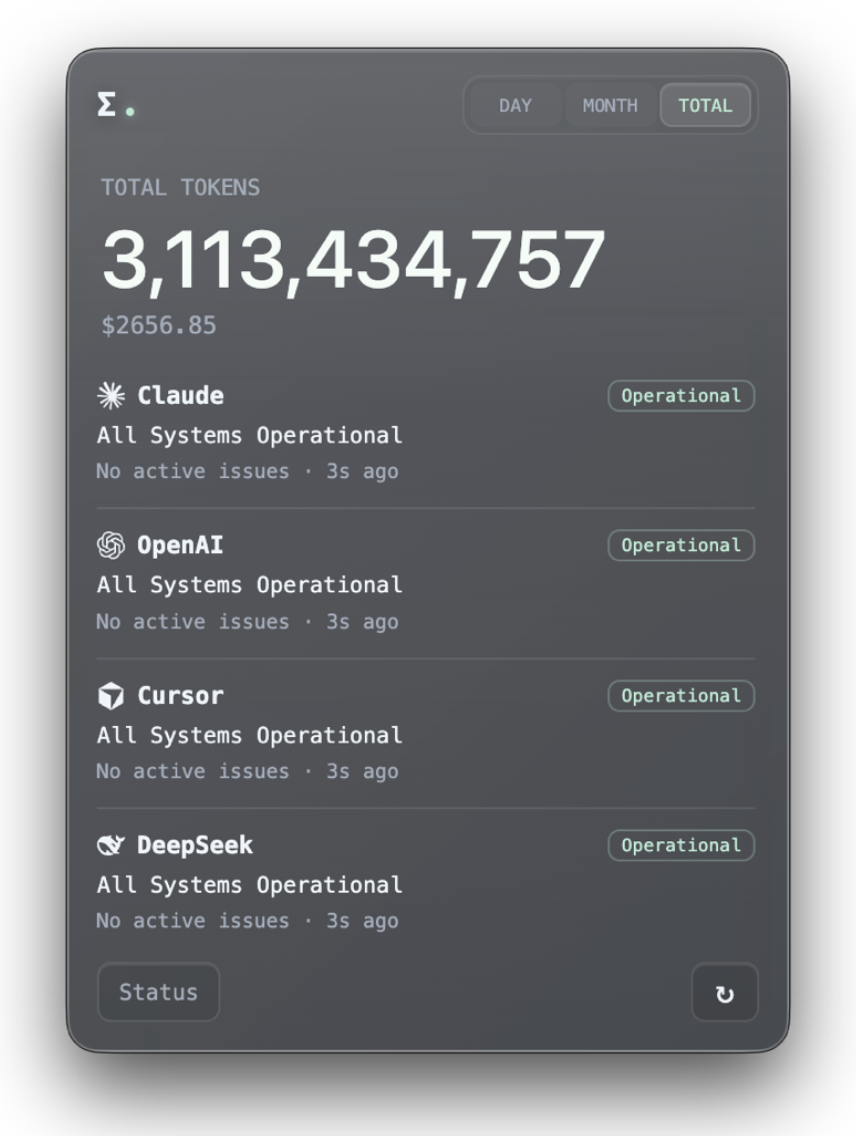
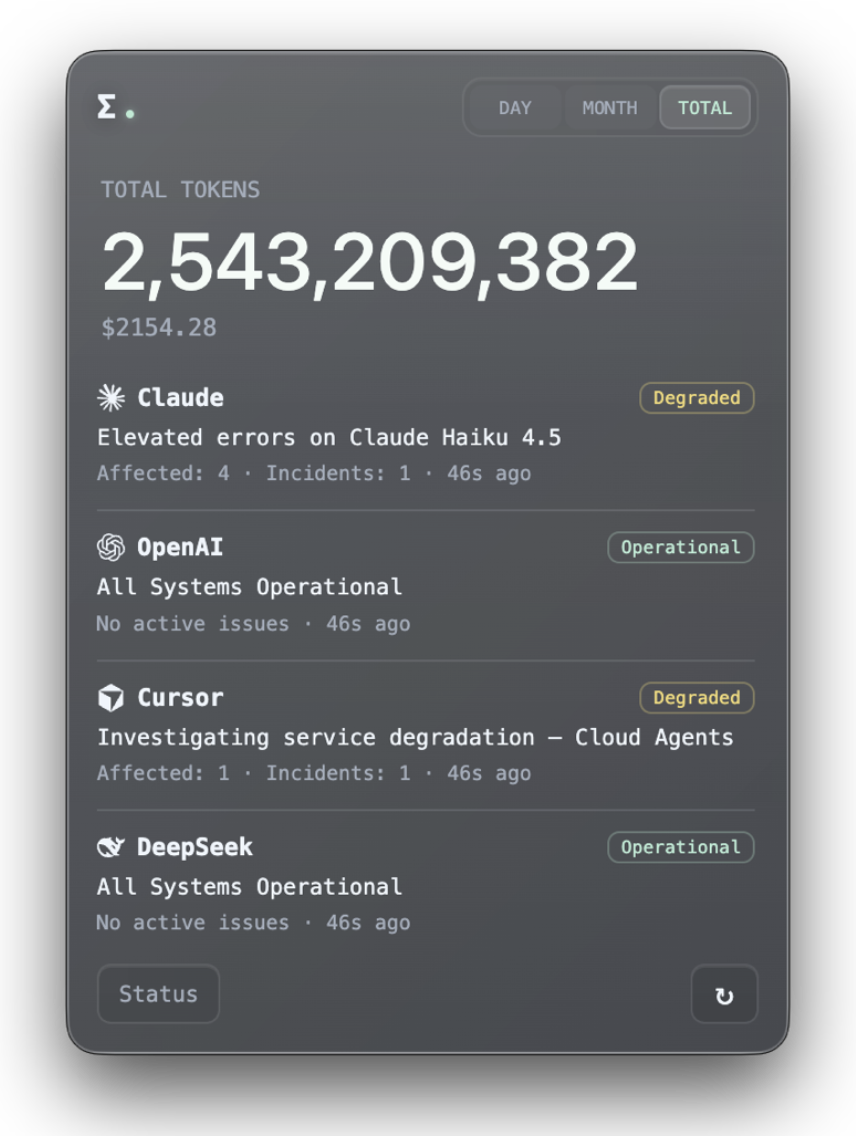
feat: lead service status card with the active incident title and an affected-component count

diff --git a/tests/electron/serviceStatus.test.js b/tests/electron/serviceStatus.test.js
@@ -45,9 +45,38 @@ test('summarizeStatuspageProvider converts statuspage summary into compact provi
     checkedAt: '2026-06-06T02:31:00Z',
     updatedAt: '2026-06-06T02:30:00Z',
     componentIssues: [{ name: 'API', status: 'degraded_performance' }],
+    incidentTitle: 'API latency',
     incidentCount: 1,
     maintenanceCount: 1
   });
+});
+
+test('summarizeStatuspageProvider surfaces the newest active incident name as incidentTitle', () => {
+  const payload = {
+    status: { indicator: 'minor', description: 'Partially Degraded Service' },
+    incidents: [
+      { name: 'Elevated errors on Claude Haiku 4.5', status: 'identified' },
+      { name: 'Older active incident', status: 'monitoring' }
+    ]
+  };
+
+  const result = summarizeStatuspageProvider(provider, payload, { checkedAt: '2026-06-06T02:31:00Z' });
+
+  // The first entry mirrors the headline the official status page leads with.
+  assert.equal(result.incidentTitle, 'Elevated errors on Claude Haiku 4.5');
+  assert.equal(result.incidentCount, 2);
+});
+
+test('summarizeStatuspageProvider leaves incidentTitle empty when no incident is active', () => {
+  const payload = {
+    status: { indicator: 'none', description: 'All Systems Operational' },
+    incidents: [{ name: 'Resolved last week', status: 'resolved' }]
+  };
+
+  const result = summarizeStatuspageProvider(provider, payload, { checkedAt: '2026-06-06T02:31:00Z' });
+
+  assert.equal(result.incidentTitle, '');
+  assert.equal(result.incidentCount, 0);
 });
 
 test('summarizeStatuspageProvider reports unknown when a provider fetch fails', () => {
@@ -58,6 +87,7 @@ test('summarizeStatuspageProvider reports unknown when a provider fetch fails', 
 
   assert.equal(result.status, 'unknown');
   assert.equal(result.error, 'network down');
+  assert.equal(result.incidentTitle, '');
   assert.equal(result.incidentCount, 0);
   assert.equal(result.maintenanceCount, 0);
 });

diff --git a/src/electron/renderer/app.js b/src/electron/renderer/app.js
@@ -1106,20 +1106,21 @@ function serviceStatusLabel(status) {
   return t('serviceStatus.unknown');
 }
 
-function serviceStatusComponentText(provider) {
-  const { visible, overflow } = serviceStatusPresentationApi.affectedComponentNames(provider.componentIssues, 2);
-  if (!visible.length) return '';
-  const names = visible.join(t('serviceStatus.listSeparator'));
-  return overflow > 0 ? `${names} ${t('serviceStatus.componentsMore', { count: overflow })}` : names;
-}
-
 function serviceStatusMeta(provider) {
+  // Show a short affected-component *count* rather than the names: the names are
+  // the variable-length part that overflowed the line, while the count keeps the
+  // real scope visible — an incident title (line 2) often understates it, e.g.
+  // "errors on Haiku" while claude.ai/API/Code are all degraded. Full names stay
+  // in the row tooltip (set in renderServiceStatus).
   const parts = [];
-  const components = serviceStatusComponentText(provider);
-  if (components) parts.push(components);
+  const affectedCount = serviceStatusPresentationApi.affectedComponentNames(provider.componentIssues).all.length;
+  if (affectedCount > 0) parts.push(t('serviceStatus.components', { count: affectedCount }));
   if (Number(provider.incidentCount || 0) > 0) parts.push(t('serviceStatus.incidents', { count: provider.incidentCount }));
   if (Number(provider.maintenanceCount || 0) > 0) parts.push(t('serviceStatus.maintenance', { count: provider.maintenanceCount }));
-  return parts.join(' · ') || t('serviceStatus.noIssues');
+  if (parts.length) return parts.join(' · ');
+  // "No ongoing issues" only reads true for a healthy provider — a degraded one
+  // with nothing to count shows just its timestamp rather than a contradiction.
+  return provider.status === 'ok' ? t('serviceStatus.noIssues') : '';
 }
 
 function visibleServiceProviderIds() {
@@ -1181,7 +1182,7 @@ function renderServiceStatus() {
     head.append(title, pill);
     const description = document.createElement('div');
     description.className = 'service-status-description';
-    description.textContent = provider.description || t('serviceStatus.unknown');
+    description.textContent = serviceStatusPresentationApi.statusHeadline(provider) || t('serviceStatus.unknown');
     const meta = document.createElement('div');
     meta.className = 'service-status-meta';
     const metaInfo = serviceStatusMeta(provider);

diff --git a/tests/electron/serviceStatusPresentation.test.js b/tests/electron/serviceStatusPresentation.test.js
@@ -5,7 +5,8 @@ const test = require('node:test');
 
 const {
   affectedComponentNames,
-  agoBucket
+  agoBucket,
+  statusHeadline
 } = require('../../src/electron/renderer/serviceStatusPresentation');
 
 test('affectedComponentNames splits names into a visible slice and overflow count', () => {
@@ -41,6 +42,23 @@ test('affectedComponentNames ignores blank names and tolerates bad input', () =>
     visible: ['Search'],
     overflow: 0
   });
+});
+
+test('statusHeadline prefers the active incident title over the generic description', () => {
+  assert.equal(
+    statusHeadline({ incidentTitle: 'Elevated errors on Claude Haiku 4.5', description: 'Partially Degraded Service' }),
+    'Elevated errors on Claude Haiku 4.5'
+  );
+});
+
+test('statusHeadline falls back to the description when no incident is active', () => {
+  assert.equal(statusHeadline({ incidentTitle: '', description: 'All Systems Operational' }), 'All Systems Operational');
+  assert.equal(statusHeadline({ description: 'All Systems Operational' }), 'All Systems Operational');
+});
+
+test('statusHeadline returns an empty string when nothing is known', () => {
+  assert.equal(statusHeadline({}), '');
+  assert.equal(statusHeadline(null), '');
 });
 
 test('agoBucket buckets into seconds, minutes, and hours', () => {

diff --git a/tests/electron/serviceStatusDom.test.js b/tests/electron/serviceStatusDom.test.js
@@ -42,6 +42,24 @@ test('renderer surfaces affected component names through the presentation helper
   assert.match(app, /serviceStatusPresentationApi\.affectedComponentNames/);
 });
 
+test('the status description line leads with the active incident headline', () => {
+  const app = readRendererFile('app.js');
+  const renderBody = functionBody(app, 'renderServiceStatus', 'refreshServiceStatus');
+  assert.match(renderBody, /serviceStatusPresentationApi\.statusHeadline/);
+});
+
+test('the meta line shows an affected-component count, not the verbose name list', () => {
+  const app = readRendererFile('app.js');
+  // The component names made the meta line overflow; the full list now lives only
+  // in the row tooltip (meta.title), so the dedicated name-joining helper is gone.
+  assert.doesNotMatch(app, /function serviceStatusComponentText/);
+  const metaBody = functionBody(app, 'serviceStatusMeta', 'visibleServiceProviderIds');
+  // A short count keeps the real scope visible (an incident title can understate
+  // it) without reintroducing the overflow that the joined name list caused.
+  assert.match(metaBody, /serviceStatus\.components/);
+  assert.doesNotMatch(metaBody, /listSeparator/);
+});
+
 test('renderer fetches service status only through preload IPC', () => {
   const app = readRendererFile('app.js');
   const renderBody = functionBody(app, 'renderServiceStatus', 'refreshServiceStatus');

diff --git a/src/electron/renderer/serviceStatusPresentation.js b/src/electron/renderer/serviceStatusPresentation.js
@@ -20,6 +20,16 @@
     };
   }
 
+  // The card's second line leads with the active incident's name when there is
+  // one — it's far more useful (and what the official page headlines) than the
+  // generic "Partially Degraded Service", which the status pill already conveys.
+  // Falls back to the overall status description when no incident is active.
+  function statusHeadline(provider) {
+    const incident = String(provider?.incidentTitle || '').trim();
+    if (incident) return incident;
+    return String(provider?.description || '').trim();
+  }
+
   function agoBucket(ms) {
     const total = Math.max(0, Math.floor((Number(ms) || 0) / 1000));
     if (total < 60) return { unit: 'seconds', value: total };
@@ -27,5 +37,5 @@
     return { unit: 'hours', value: Math.floor(total / 3600) };
   }
 
-  return { affectedComponentNames, agoBucket };
+  return { affectedComponentNames, agoBucket, statusHeadline };
 });

diff --git a/src/electron/renderer/i18n.js b/src/electron/renderer/i18n.js
@@ -140,7 +140,7 @@
       'serviceStatus.notChecked': 'Not checked',
       'serviceStatus.noIssues': 'No active issues',
       'serviceStatus.listSeparator': ', ',
-      'serviceStatus.componentsMore': '+{count}',
+      'serviceStatus.components': 'Affected: {count}',
       'serviceStatus.incidents': 'Incidents: {count}',
       'serviceStatus.maintenance': 'Maintenance: {count}',
       'serviceStatus.checkedAt': 'Checked {time}',
@@ -496,7 +496,7 @@
       'serviceStatus.notChecked': '尚未檢查',
       'serviceStatus.noIssues': '無進行中的問題',
       'serviceStatus.listSeparator': '、',
-      'serviceStatus.componentsMore': '+{count}',
+      'serviceStatus.components': '受影響組件：{count}',
       'serviceStatus.incidents': '事件：{count}',
       'serviceStatus.maintenance': '維護：{count}',
       'serviceStatus.checkedAt': '{time} 檢查',
@@ -852,7 +852,7 @@
       'serviceStatus.notChecked': '尚未检查',
       'serviceStatus.noIssues': '无进行中的问题',
       'serviceStatus.listSeparator': '、',
-      'serviceStatus.componentsMore': '+{count}',
+      'serviceStatus.components': '受影响组件：{count}',
       'serviceStatus.incidents': '事件：{count}',
       'serviceStatus.maintenance': '维护：{count}',
       'serviceStatus.checkedAt': '{time} 检查',

diff --git a/tests/electron/i18n.test.js b/tests/electron/i18n.test.js
@@ -129,6 +129,12 @@ test('service status provider preference labels exist in Chinese', () => {
   assert.equal(translate('zh-TW', 'serviceStatus.configureProviders', { name: '狀態' }), '設定 狀態 服務');
 });
 
+test('the affected-component count is localized', () => {
+  assert.equal(translate('en', 'serviceStatus.components', { count: 4 }), 'Affected: 4');
+  assert.equal(translate('zh-TW', 'serviceStatus.components', { count: 4 }), '受影響組件：4');
+  assert.equal(translate('zh-CN', 'serviceStatus.components', { count: 4 }), '受影响组件：4');
+});
+
 test('relative status timestamps are localized', () => {
   assert.equal(translate('zh-TW', 'serviceStatus.agoSeconds', { n: 5 }), '5 秒前');
   assert.equal(translate('zh-TW', 'serviceStatus.agoMinutes', { n: 3 }), '3 分鐘前');

diff --git a/src/electron/serviceStatus.js b/src/electron/serviceStatus.js
@@ -88,6 +88,7 @@ function summarizeStatuspageProvider(provider, payload, options = {}) {
       checkedAt,
       updatedAt: '',
       componentIssues: [],
+      incidentTitle: '',
       incidentCount: 0,
       maintenanceCount: 0,
       error: options.error?.message || 'Unable to check status'
@@ -108,6 +109,9 @@ function summarizeStatuspageProvider(provider, payload, options = {}) {
     checkedAt,
     updatedAt: String(payload.page?.updated_at || payload.status?.updated_at || '').trim(),
     componentIssues: issues,
+    // The newest active incident's name — the headline the official status page
+    // leads with (e.g. "Elevated errors on Claude Haiku 4.5"). Empty when none.
+    incidentTitle: incidents.length ? String(incidents[0].name || '').trim() : '',
     incidentCount: incidents.length,
     maintenanceCount: maintenances.length
   };